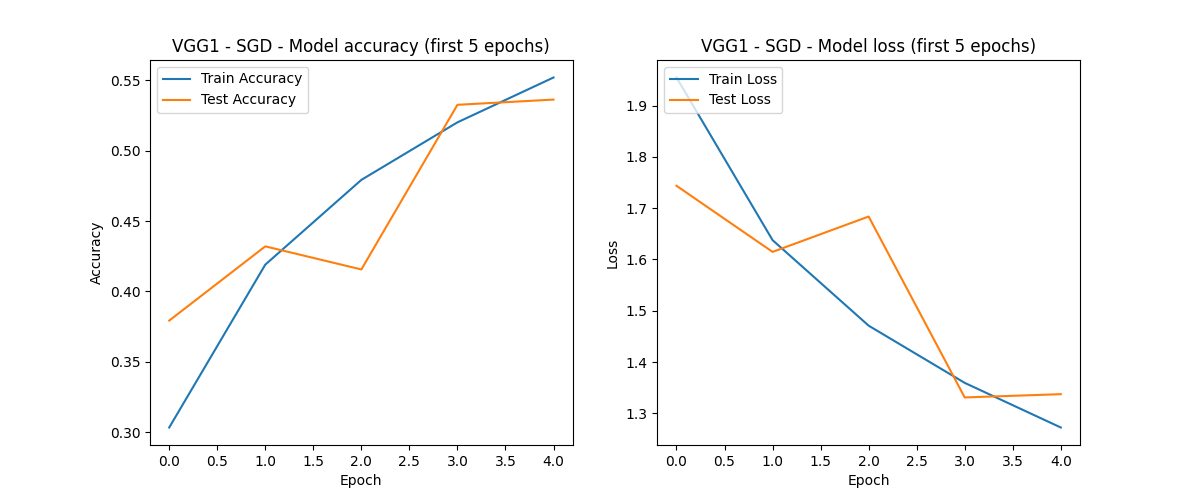
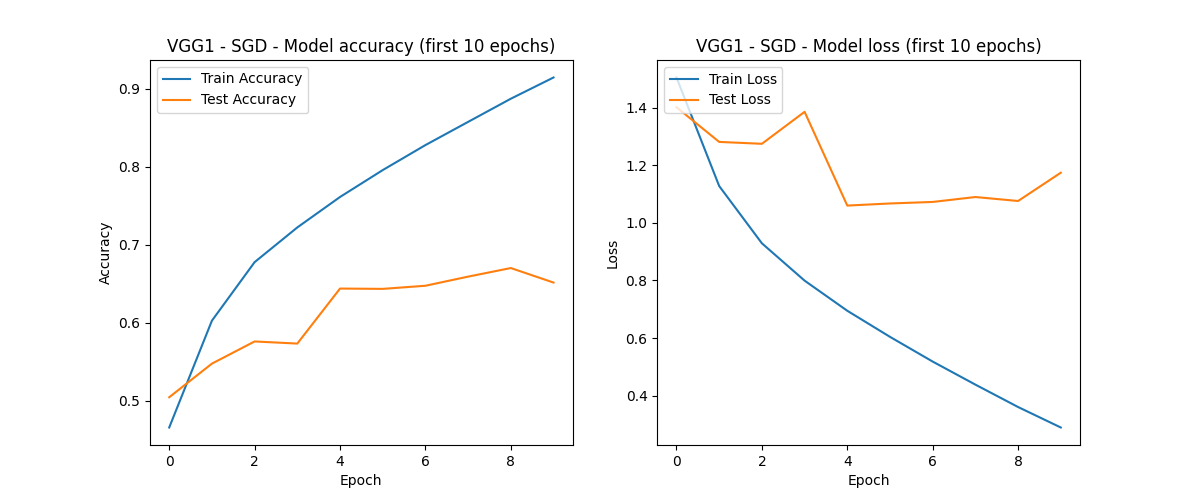
GOOOOOOOOOOOOOOOOOOOOOOOOOOOOOOOOOOOOOOOOOOOOOOOOOOOOOOOOOOOOOOOOOOOOOOOOALLLLLLLLLLLL

diff --git a/main.py b/main.py
@@ -5,50 +5,25 @@ import tensorflow as tf
 import matplotlib.pyplot as plt
 import numpy as np
 
+
+######Value########
+
+max_epochs = 10
+class_names = ['airplane', 'automobile', 'bird', 'cat', 'deer', 'dog', 'frog', 'horse', 'ship', 'truck']
+
+###################
 # VGG Block
 def vgg_block(num_convs, num_filters):
     block = tf.keras.models.Sequential()
     for _ in range(num_convs):
         block.add(tf.keras.layers.Conv2D(num_filters, kernel_size=(3,3), padding='same', activation='relu'))
     block.add(tf.keras.layers.MaxPooling2D(pool_size=(2,2), strides=2))
+    tf.keras.layers.Dropout(0.7),  # Dropout layer
     return block
-
-# VGG1 - 1 VGG Block
-def vgg1():
-    model = tf.keras.models.Sequential([
-        vgg_block(2, 32), # 1 VGG block
-        tf.keras.layers.Flatten(),
-        tf.keras.layers.Dense(128, activation='relu'),
-        tf.keras.layers.Dense(10, activation='softmax')
-    ])
-    return model
-
-# VGG2 - 2 VGG Blocks
-def vgg2():
-    model = tf.keras.models.Sequential([
-        vgg_block(2, 32), # 1st VGG block
-        vgg_block(2, 64), # 2nd VGG block
-        tf.keras.layers.Flatten(),
-        tf.keras.layers.Dense(128, activation='relu'),
-        tf.keras.layers.Dense(10, activation='softmax')
-    ])
-    return model
-
-# VGG3 - 3 VGG Blocks
-def vgg3():
-    model = tf.keras.models.Sequential([
-        vgg_block(2, 32), # 1st VGG block
-        vgg_block(2, 64), # 2nd VGG block
-        vgg_block(2, 128), # 3rd VGG block
-        tf.keras.layers.Flatten(),
-        tf.keras.layers.Dense(128, activation='relu'),
-        tf.keras.layers.Dense(10, activation='softmax')
-    ])
-    return model
 
 # Display some images with their labels
 def plot_sample_images(images, labels, classes):
-    plt.figure(figsize=(10,10))
+    plt.figure(figsize=(len(class_names),len(class_names)))
     for i in range(9):
         plt.subplot(3,3,i+1)
         plt.imshow(images[i])
@@ -65,7 +40,7 @@ def plot_class_distribution(labels, class_names):
     plt.ylabel("Frequency")
     plt.show()
 
-def plot_history(history, model_name, max_epochs=5):
+def plot_history(history, model_name, max_epochs):
     epochs_range = range(min(len(history.history['accuracy']), max_epochs))
     plt.figure(figsize=(12, 5))
     
@@ -90,71 +65,83 @@ def plot_history(history, model_name, max_epochs=5):
     plt.savefig(f'plot/{model_name}.png')
     plt.show()
 
+
+# VGG1 avec optimisation (SGD)
+def vgg1_with_optimization():
+    model = tf.keras.models.Sequential([
+        vgg_block(2, 32), 
+        tf.keras.layers.BatchNormalization(),  # Batch Normalization
+        tf.keras.layers.Flatten(),
+        tf.keras.layers.Dense(128, activation='relu'),
+        tf.keras.layers.Dense(len(class_names), activation='softmax')
+    ])
+    return model
+
 # Add Dropout and Batch Normalization to VGG2 architecture
 def vgg2_with_regularization():
     model = tf.keras.models.Sequential([
         vgg_block(2, 32), 
-        tf.keras.layers.Dropout(0.5),  # Dropout layer
         vgg_block(2, 64),
         tf.keras.layers.BatchNormalization(),  # Batch Normalization
         tf.keras.layers.Flatten(),
         tf.keras.layers.Dense(128, activation='relu'),
-        tf.keras.layers.Dense(10, activation='softmax')
+        tf.keras.layers.Dense(len(class_names), activation='softmax')
+    ])
+    return model
+
+# Add Dropout and Batch Normalization to VGG3 architecture
+def vgg3_with_regularization():
+    model = tf.keras.models.Sequential([
+        vgg_block(2, 32),
+        vgg_block(2, 64),
+        vgg_block(2, 128),
+        tf.keras.layers.BatchNormalization(),  # Batch Normalization
+        tf.keras.layers.Flatten(),
+        tf.keras.layers.Dense(128, activation='relu'),
+        tf.keras.layers.Dense(len(class_names), activation='softmax')
     ])
     return model
 
 # Compile model
-def compile_and_train(model, optimizer, x_train, y_train_one_hot, x_test, y_test_one_hot, epochs=10):
+def compile_and_train(model, optimizer, x_train, y_train_one_hot, x_test, y_test_one_hot, max_epochs):
     model.compile(optimizer=optimizer, loss='categorical_crossentropy', metrics=['accuracy'])
-    history = model.fit(x_train, y_train_one_hot, epochs=epochs, validation_data=(x_test, y_test_one_hot), batch_size=64)
+    history = model.fit(x_train, y_train_one_hot, epochs=max_epochs,batch_size = 64, validation_data=(x_test, y_test_one_hot))
     return history
 
 
 # Load CIFAR-10 dataset
 (x_train, y_train), (x_test, y_test) = tf.keras.datasets.cifar10.load_data()
 
-# CIFAR-10 has 10 classes
-class_names = ['airplane', 'automobile', 'bird', 'cat', 'deer', 'dog', 'frog', 'horse', 'ship', 'truck']
 
 # Normalize the images to the range [0,1]
 x_train = x_train.astype('float32') / 255.0
 x_test = x_test.astype('float32') / 255.0
 
 # Convert labels to one-hot encoding
-y_train_one_hot = tf.keras.utils.to_categorical(y_train, 10)
-y_test_one_hot = tf.keras.utils.to_categorical(y_test, 10)
+y_train_one_hot = tf.keras.utils.to_categorical(y_train, len(class_names))
+y_test_one_hot = tf.keras.utils.to_categorical(y_test, len(class_names))
 
 # Create models
-model_vgg1 = vgg1()
-model_vgg2 = vgg2()
-model_vgg3 = vgg3()
+model_vgg1 = vgg1_with_optimization()
+model_vgg2 = vgg2_with_regularization()
+model_vgg3 = vgg3_with_regularization()
 
 # Optimizers to compare
 optimizers = {
-    "SGD": tf.keras.optimizers.SGD(),
-    "Adam": tf.keras.optimizers.Adam(),
-    "RMSprop": tf.keras.optimizers.RMSprop()
+    "SGD": tf.keras.optimizers.SGD(learning_rate=0.01),
+    "Adam": tf.keras.optimizers.Adam(learning_rate=0.001),
+    "RMSprop": tf.keras.optimizers.RMSprop(learning_rate=0.001)
 }
 
 # Train each model with different optimizers
-history_vgg1_sgd = compile_and_train(model_vgg1, optimizers["SGD"], x_train, y_train_one_hot, x_test, y_test_one_hot)
-history_vgg2_adam = compile_and_train(model_vgg2, optimizers["Adam"], x_train, y_train_one_hot, x_test, y_test_one_hot)
-history_vgg3_rmsprop = compile_and_train(model_vgg3, optimizers["RMSprop"], x_train, y_train_one_hot, x_test, y_test_one_hot)
+history_vgg1_sgd = compile_and_train(model_vgg1, optimizers["SGD"], x_train, y_train_one_hot, x_test, y_test_one_hot, max_epochs)
+history_vgg2_adam = compile_and_train(model_vgg2, optimizers["Adam"], x_train, y_train_one_hot, x_test, y_test_one_hot, max_epochs)
+history_vgg3_rmsprop = compile_and_train(model_vgg3, optimizers["RMSprop"], x_train, y_train_one_hot, x_test, y_test_one_hot, max_epochs)
 
 # Visualize performance
-plot_history(history_vgg1_sgd, 'VGG1 - SGD')
-plot_history(history_vgg2_adam, 'VGG2 - Adam')
-plot_history(history_vgg3_rmsprop, 'VGG3 - RMSprop')
-
-# Train VGG2 with regularization
-model_vgg2_reg = vgg2_with_regularization()
-history_vgg2_reg_adam = compile_and_train(model_vgg2_reg, optimizers["Adam"], x_train, y_train_one_hot, x_test, y_test_one_hot)
-
-# Use the function with the optimizer classes
-history_vgg2_reg_adam = compile_and_train(model_vgg2_reg, tf.keras.optimizers.Adam, x_train, y_train_one_hot, x_test, y_test_one_hot)
-
-# Visualize performance with regularization
-plot_history(history_vgg2_reg_adam, 'VGG2 with Regularization - Adam')
+plot_history(history_vgg1_sgd, 'VGG1 - SGD', max_epochs)
+plot_history(history_vgg2_adam, 'VGG2 - Adam', max_epochs)
+plot_history(history_vgg3_rmsprop, 'VGG3 - RMSprop', max_epochs)
 
 # Visualize class distribution
 plot_class_distribution(y_train, class_names)
